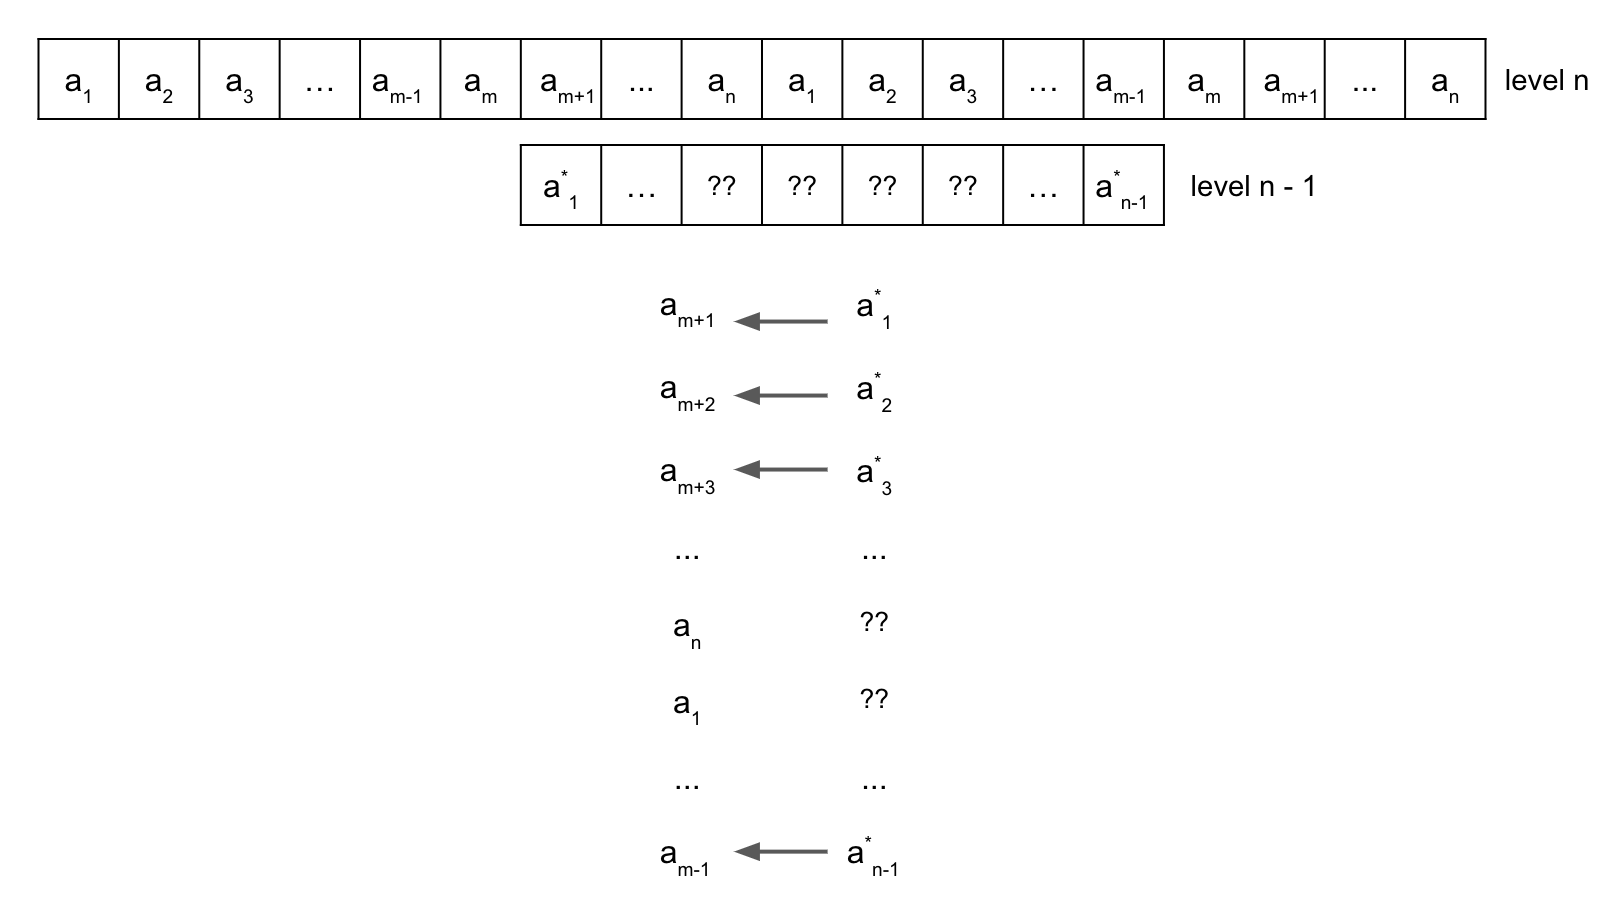
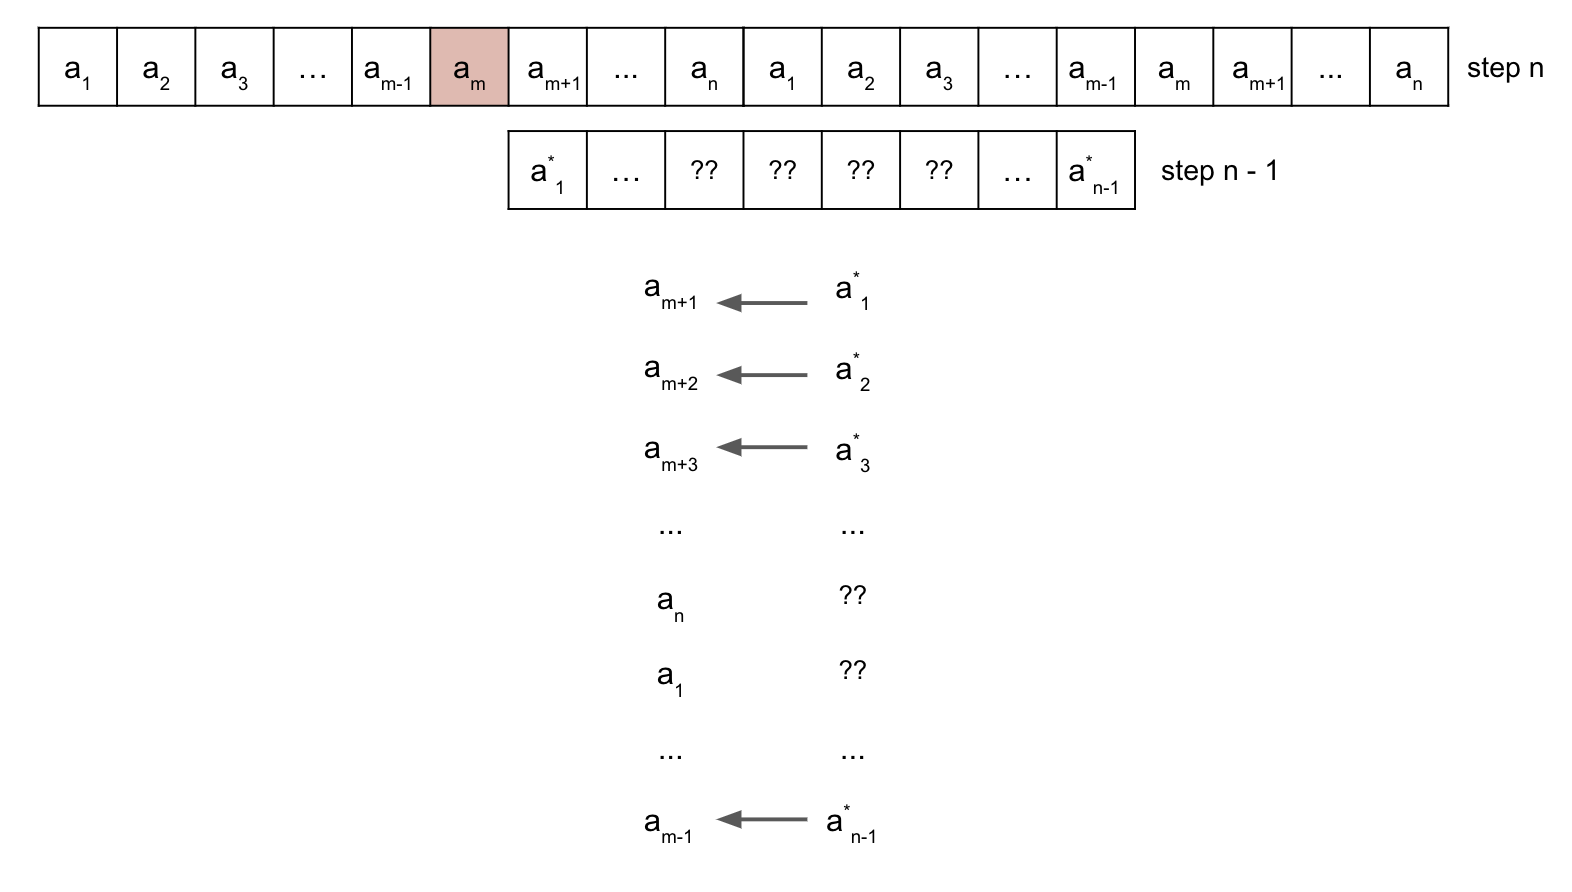
update readme to make last remaining number in circle more clear, this is a 剑指offer62

diff --git a/src/Last_Remaining_Number_in_Circle/Readme.md b/src/Last_Remaining_Number_in_Circle/Readme.md
@@ -1,27 +1,18 @@
-# Note of Last Remaining Number in Circle
-## Josephus Problem
+# types
+## josephus problem
+
+# algorithms
+## josephus problem
 This problem can be solved by using dynamic programming.  
 
-To ensure clarity in our approach, we construct an array $a_1, a_2, ..., a_n$. Notably, the only certainty we have is 
-that when only one element remains in the array, the index of the survivor must be 0. Therefore, leveraging the index 
-component is crucial in solving this problem using dynamic programming.
+To solve this question, let's ask: "If we know the survivor's index in the last step (which is 0 because it's the only element remaining), what's the survivor's index in the second-to-last step?" Since each step involves eliminating an element and rearranging the array, the survivor in the second-to-last step might have a different index. If we can solve this, we can find the survivor's index in the third-to-last step, fourth-to-last step, and so on, until the first step.
 
-Let us define $f(n)$ as the index of the survivor element when there are still $n$ elements left, while $f(n-1)$ represents 
-the index of the survivor element when $n-1$ elements are left in the array. It is important to note that both $f(n)$ and 
-$f(n-1)$ index to the same number, although their respective indices may differ. This can be visualized through the 
-following diagram:
+Generalizing, if we know the survivor's index in step $n−1$, what's the survivor's index in step $n$, where $n$ represents the number of remaining elements?
 
-![example_of_Josephus_Problem.png](example_of_Josephus_Problem.png)
-
-Let us establish the notion of `level n` to denote the scenario where there are $n$ elements remaining in the array. Given 
-this framework, the key question at hand is: if we already know the index of the survivor element in `level n-1`, what 
-is its corresponding index in `level n`?
-
-The following image serves to illustrate the relationship between the survivor element's indices in `level n-1` and `level n`.
+Let's illustrate this with an image:
 
 ![level_n_vs_level_n-1.png](level_n_vs_level_n-1.png)
 
-Assuming that we utilize $x$ to represent the index of the survivor element in `level n-1`, we can derive the corresponding 
-index in `level n` as $(x + m) \mod{n}$. Therefore, we can express the relationship between the indices of the survivor element 
-in `level n` and `level n-1` mathematically as follows:
+Assuming that we utilize $x$ to represent the index of the survivor element in `step n-1`, we can derive the corresponding index in `step n` as $(x + m) \mod{n}$. Therefore, we can express the relationship between the indices of the survivor element in `step n` and `step n-1` mathematically as follows:
+
 $$f(n) = (f(n-1) + m) \mod{n}$$
